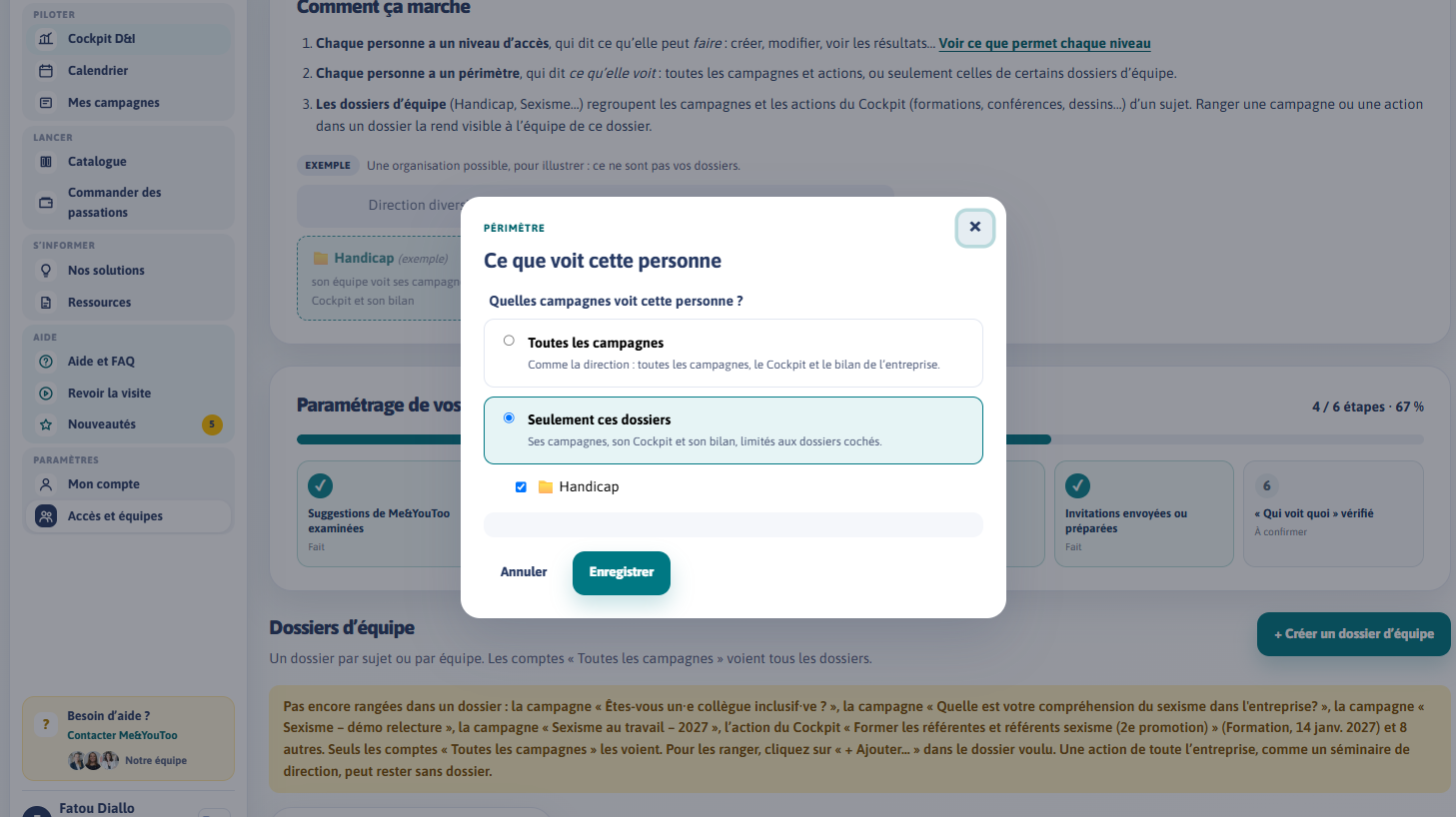
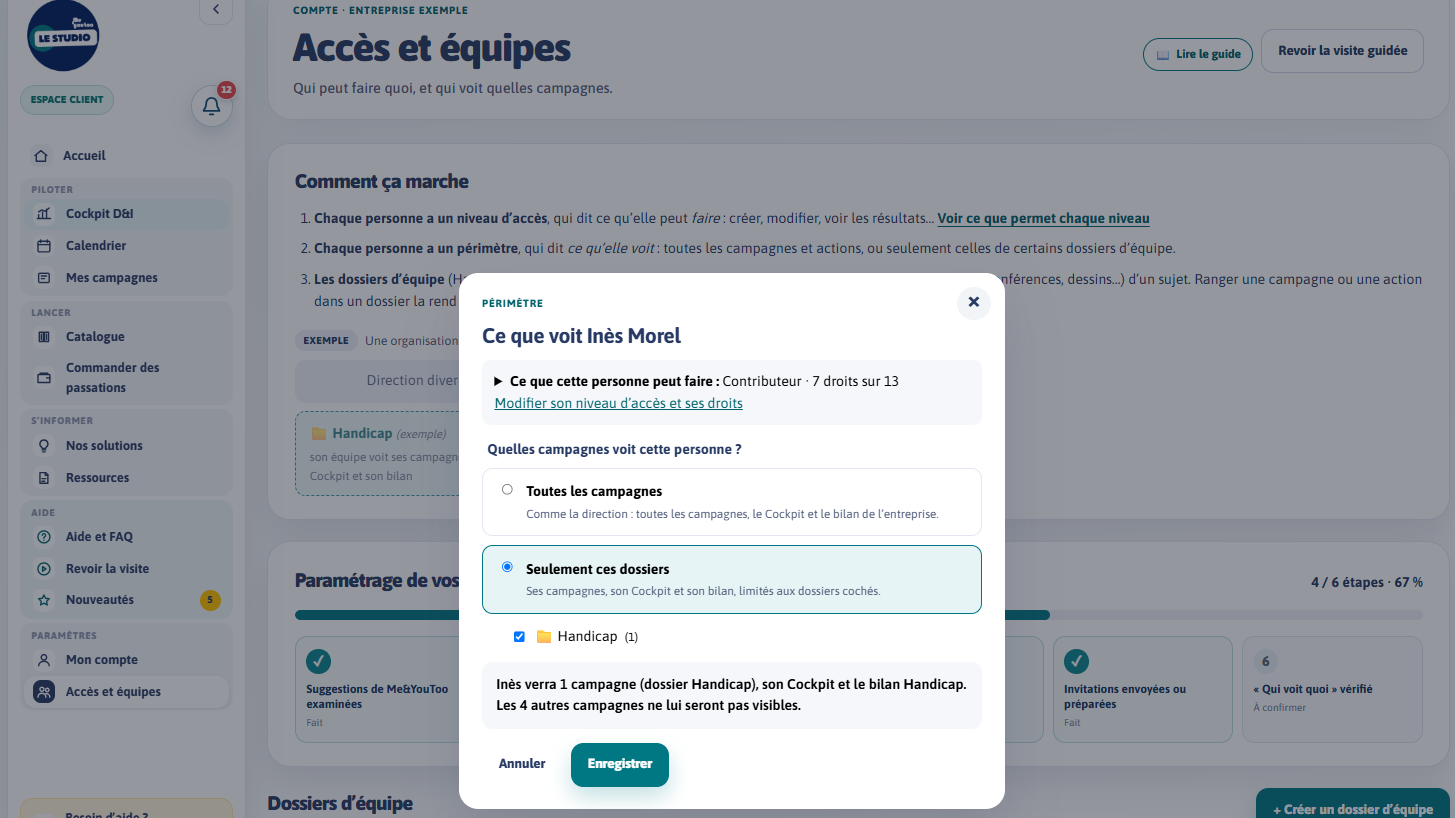
Tuto droits : capture du périmètre refaite avec la collègue fictive

diff --git a/tutos/droits/index.html b/tutos/droits/index.html
@@ -10,8 +10,8 @@
 <body>
 <div class="tuto" id="tuto"></div>
 <script>
-// Captures du 4 novembre 2026 : compte de démonstration Fatou Diallo, Entreprise Exemple. Aucun compte créé, aucune invitation envoyée, rien enregistré.
-// Capture 4 : fenêtre « Ce que voit cette personne » ouverte sans collègue réel ; la case du dossier Handicap est ajoutée à l’écran pour l’exemple.
+// Captures du 4 novembre 2026 : compte de démonstration Fatou Diallo, Entreprise Exemple. 
+// Capture 4 (5 novembre 2026) : périmètre réel d’Inès Morel, collègue fictive du compte de démonstration, limitée au dossier Handicap.
 // Cadres en % de la capture : [gauche, haut, largeur, hauteur]. Pour caler la voix : audio:'voix.mp3' et « at » (secondes) sur chaque plan.
 window.TUTO={
   eyebrow:'Tutoriel · Compte et accès',
@@ -31,8 +31,8 @@ window.TUTO={
     {img:'ecran-2.png',box:[29,62.5,42.8,8.7],text:'Commander des passations est réservé par défaut au responsable du compte. Le gestionnaire de campagnes peut suivre les commandes, sans en passer.'},
     {img:'ecran-2.png',box:[29,71.4,42.8,13.2],text:'Le calendrier et le Cockpit D&I, ce dernier avec la formule annuelle, sont ouverts à tous les niveaux. Créer et gérer des tâches demande au moins le niveau contributeur.'},
     {img:'ecran-3.png',box:[35.4,49,29.2,43],text:'Ces droits sont ceux par défaut. Vous pouvez les ajuster personne par personne, en cochant ou décochant chaque droit quand vous ajoutez un accès.'},
-    {img:'ecran-4.png',box:[33.2,39,34.3,8.4],text:'Passons au périmètre. « Toutes les campagnes » donne la vue de la direction : toutes les campagnes, le Cockpit et le bilan de l’entreprise.'},
-    {img:'ecran-4.png',box:[33.2,48.6,34.3,12.6],text:'« Seulement ces dossiers » limite la personne aux dossiers cochés : ses campagnes, son Cockpit et son bilan, limités à ces dossiers.'},
+    {img:'ecran-4.png',box:[33.1,57.2,34.4,8.4],text:'Passons au périmètre. « Toutes les campagnes » donne la vue de la direction : toutes les campagnes, le Cockpit et le bilan de l’entreprise.'},
+    {img:'ecran-4.png',box:[33.1,66.4,34.4,23],text:'« Seulement ces dossiers » limite la personne aux dossiers cochés : ses campagnes, son Cockpit et son bilan, limités à ces dossiers.'},
     {img:'ecran-5.png',box:[20.4,43,77.4,6.4],text:'Une personne limitée peut créer des campagnes si son niveau le permet. Elle les crée dans un de ses dossiers, et la direction les retrouve automatiquement.'},
     {img:'ecran-5.png',box:[20.4,52.3,77.4,18.4],text:'Le solde de passations est commun, mais une personne limitée ne voit que ses commandes. La vue d’ensemble et les objectifs de l’année restent aux comptes « Toutes les campagnes ».'},
     {img:'ecran-5.png',box:[20.4,83.2,77.4,6.4],text:'Un compte ne voit rien ? Il est limité à des dossiers sans aucun dossier coché, ou son dossier a été supprimé. Cochez un dossier ou donnez accès à tout.'},
